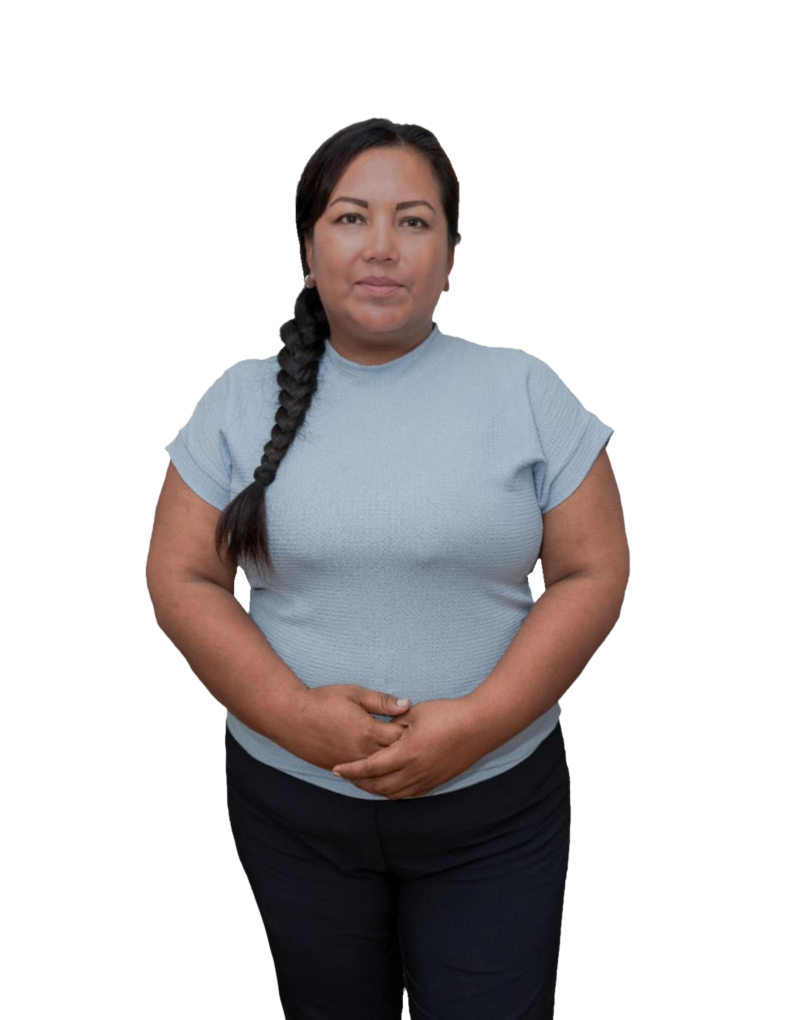
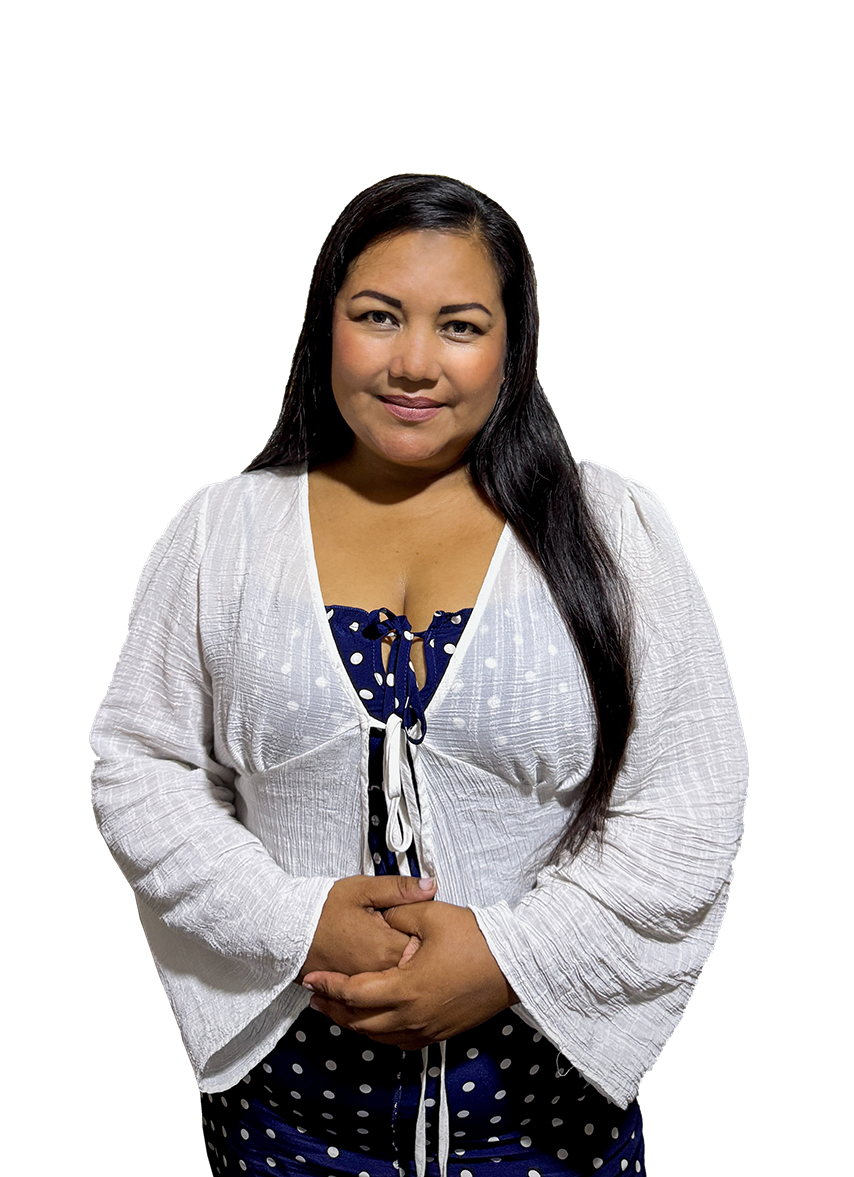
Actualiza fotografías de la sección equipo

diff --git a/src/data.ts b/src/data.ts
@@ -156,15 +156,21 @@ export const services = [
 export const locations = ['Morales', 'Lamas', 'Lima', 'Jaén', 'Yurimaguas', 'San José de Sisa']
 
 export const team = [
-  { image: '/images/equipo-alicia.png', name: 'Malu Alicia Chumbe Ambulay', role: '', specialty: 'Abogada', portrait: 'portrait-director' },
-  { image: '/images/equipo-mario.png', name: 'Mario Flores Armas ', role: '', specialty: 'Abogado', portrait: 'portrait-mateo' },
-  { image: '/images/equipo-sakura.png', name: 'Naomi Sakura Ramirez Mendoza', role: '', specialty: 'Abogada', portrait: 'portrait-adrian' },
-  { image: '/images/equipo-uno.png', name: 'Juan Diego Ríos Ramirez', role: '', specialty: 'Asistente legal', portrait: 'portrait-lucas' },
-  { image: '/images/equipo-silvestre.png', name: 'Luis Silvestre Ayala', role: '', specialty: 'Asistente de TI', portrait: 'portrait-camila' },
-  { image: '/images/equipo-mabel.png', name: 'Aris Mabel Davila Davila', role: '', specialty: 'Administradora', portrait: 'portrait-elena' },
-  { image: '/images/equipo-cuatro.png', name: 'Jimena Gatica Vásquez', role: '', specialty: 'Asistente Legal', portrait: 'portrait-rocio' },
-  { image: '/images/equipo-valeria.png', name: 'Anny Alejandra Morí Panduro', role: '', specialty: 'Asistente legal', portrait: 'portrait-valeria' },
-  { image: '/images/equipo-ocho.png', name: 'Cesar Rios Chavez', role: '', specialty: 'Asistente legal', portrait: 'portrait-valeria' },
+
+  { image: '/images/equipo-8498-fondo-blanco-logo.png', name: 'Malu Alicia Chumbe Ambulay', role: '', specialty: 'Equipo profesional', portrait: 'portrait-standard' },
+  { image: '/images/equipo-8510-fondo-blanco-logo.png', name: 'Naomi Sakura Ramirez Mendoza', role: '', specialty: 'Abogada', portrait: 'portrait-standard' },
+  { image: '/images/equipo-8499-fondo-blanco-logo.png', name: 'Cristina Paola García Flores', role: '', specialty: 'Abogada', portrait: 'portrait-standard' },
+  { image: '/images/equipo-8506-fondo-blanco-logo.png', name: 'Mario Flores Armas', role: '', specialty: 'Abogado', portrait: 'portrait-standard' },
+  { image: '/images/equipo-8537-fondo-blanco-logo.png', name: 'Aris Mabel Davila Davila', role: '', specialty: 'Asistente legal', portrait: 'portrait-standard' },
+  { image: '/images/abogado-dos-fondo-blanco-logo.png', name: 'Juan Diego Ríos Ramirez', role: '', specialty: 'Asistente legal', portrait: 'portrait-standard' },
+  { image: '/images/equipo-8508-fondo-blanco-logo.png', name: 'Ariana Alessandra Valera Valles', role: '', specialty: 'Asistente legal', portrait: 'portrait-standard' },
+  { image: '/images/equipo-8511-fondo-blanco-logo.png', name: 'Piero Alava Amacifuen', role: '', specialty: 'Asistente legal', portrait: 'portrait-standard' },
+  { image: '/images/equipo-8502-fondo-blanco-logo.png', name: 'Ruth Gabriela Reátegui Amasifuén ', role: '', specialty: 'Asistente legal', portrait: 'portrait-standard' },
+  { image: '/images/equipo-dos-fondo-blanco-logo.png', name: 'Jimena Gatica Vásquez', role: '', specialty: 'Asistente legal', portrait: 'portrait-standard' },
+  { image: '/images/equipo-8504-fondo-blanco-logo.png', name: 'Roxana Flores Morí', role: '', specialty: 'Asistente legal', portrait: 'portrait-standard' },
+  { image: '/images/equipo-uno-fondo-blanco-logo.png', name: 'Anny Alejandra Morí Panduro', role: '', specialty: 'Asistente legal', portrait: 'portrait-standard' },
+  { image: '/images/equipo-integrante-12-fondo-blanco-logo.png', name: 'Luis Silvestre Ayala', role: '', specialty: 'Asistente TI', portrait: 'portrait-standard' },
+  
 
 ]
 

diff --git a/src/styles/global.css b/src/styles/global.css
@@ -223,8 +223,8 @@ p { line-height: 1.7; }
 .premium-team-grid { display: grid; grid-template-columns: repeat(4, 1fr); gap: 18px; }
 .person-card { min-width: 0; overflow: hidden; background: var(--paper); border: 1px solid var(--line); transition: border-color .25s ease, transform .25s ease; }
 .person-card:hover { border-color: var(--gold-light); transform: translateY(-3px); }
-.person-photo { position: relative; height: 390px; overflow: hidden; background: var(--surface); }
-.person-photo img { position: relative; z-index: 1; width: 100%; height: 100%; object-fit: contain; object-position: center bottom; transform: scale(var(--portrait-scale, 1)); transform-origin: center top; }
+.person-photo { position: relative; aspect-ratio: 4 / 5; height: auto; min-height: 390px; overflow: hidden; background: var(--surface); }
+.person-photo img { position: relative; z-index: 1; display: block; width: 100%; height: 100%; object-fit: cover; object-position: center top; transform: scale(var(--portrait-scale, 1)); transform-origin: center top; }
 .portrait-director { --portrait-scale: 1.34; }
 .portrait-mateo { --portrait-scale: 1.34; }
 .portrait-adrian { --portrait-scale: 1.34; }
